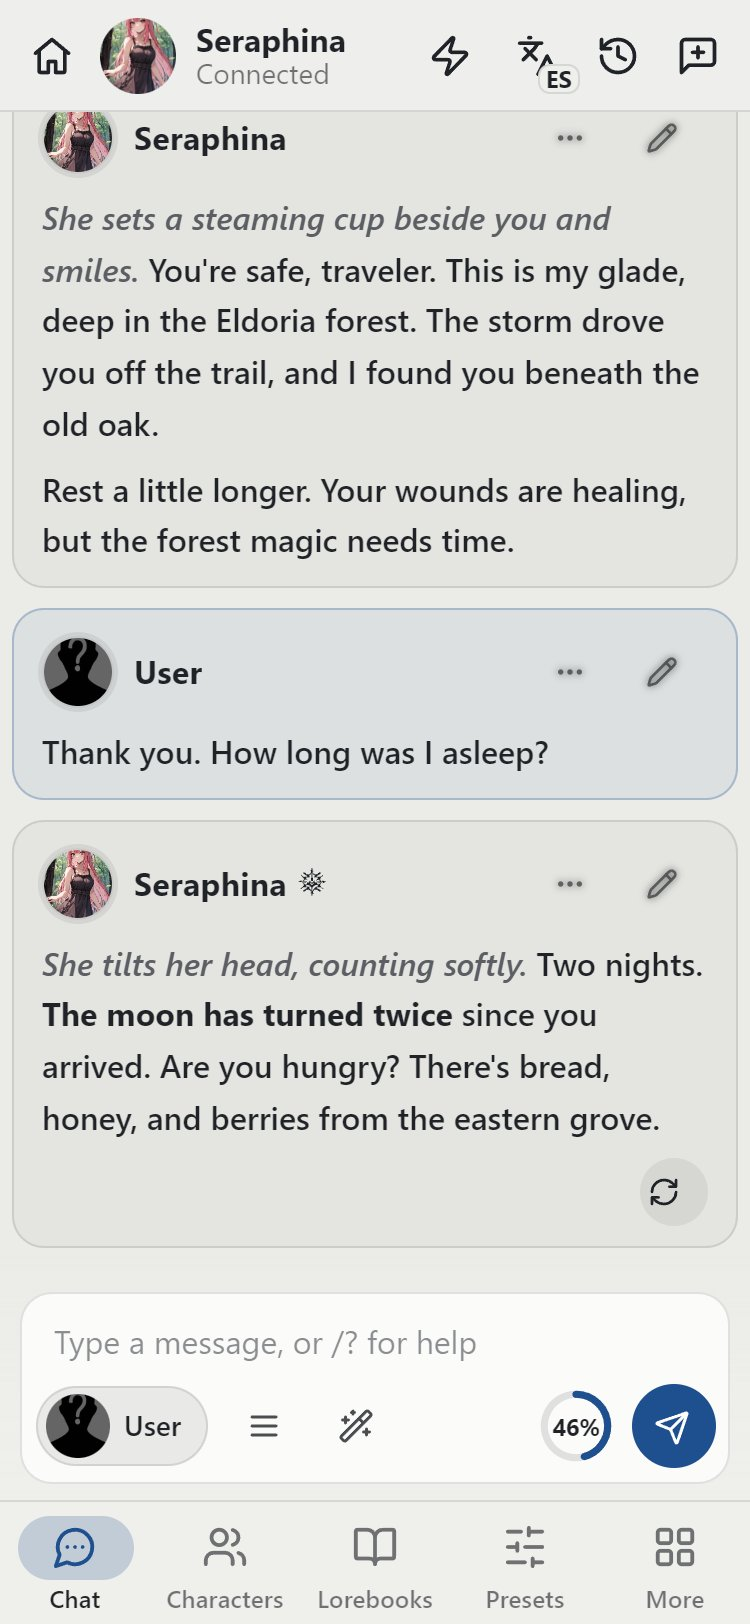
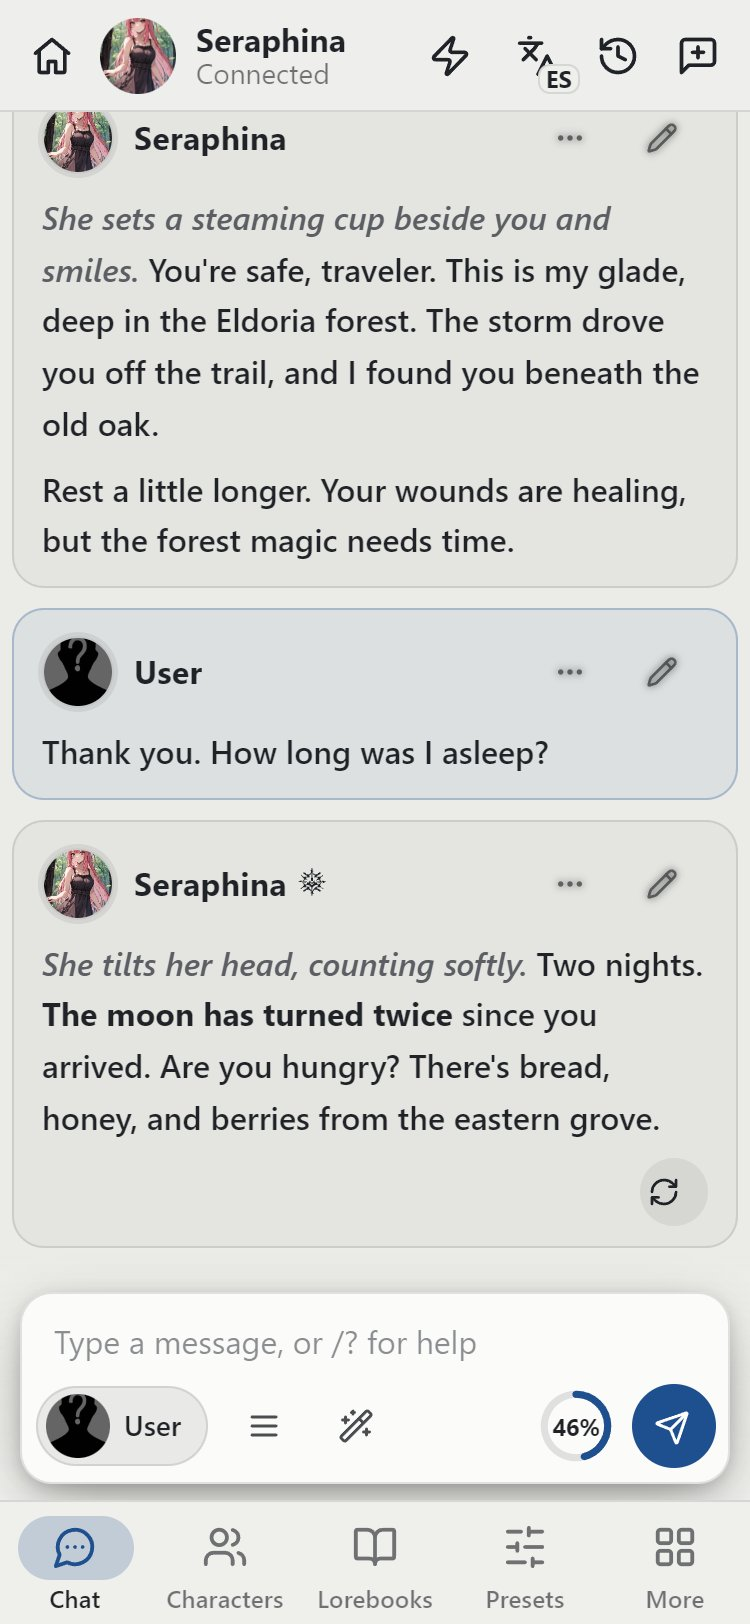
Pocket Tavern 2.15.1: tap no longer swipes back, chats open at the newest message, smooth sheet drag
The back arrow's bigger tap area covered the whole message because the arrow
was not positioned; chats are held at the newest message while they settle;
sheets drag per frame on their own layer, from content too, with a flick to
close; a soft shadow under the message box.

Changed region(s): [[0.0, 0.8005, 1.0, 0.9236]]

diff --git a/index.js b/index.js
@@ -526,33 +526,82 @@ function wireSheet(target) {
         closeSheet();
     });
 
+    // Drag down to close: from the top strip, or from the contents when they are
+    // scrolled to the top. The sheet is its own layer while dragging and moves
+    // once per frame; the dimmed background lightens with it; a quick flick closes.
     let startY = null;
+    let lastY = 0;
+    let lastT = 0;
+    let speed = 0;
     let dy = 0;
+    let dragging = false;
+    let frame = 0;
+    const paint = () => {
+        frame = 0;
+        panel.style.transform = `translateY(${dy}px)`;
+        dialog.style.setProperty('--stmui-drag', String(Math.min(1, dy / Math.max(1, panel.offsetHeight))));
+    };
     const begin = event => {
-        if (event.target.closest('button')) return;
-        startY = event.touches[0].clientY;
+        // Rows and buttons can start a drag too (most of a sheet is rows); fields cannot.
+        if (event.touches.length !== 1 || event.target.closest('input, textarea, select, [contenteditable="true"]')) return;
+        startY = lastY = event.touches[0].clientY;
+        lastT = event.timeStamp;
+        speed = 0;
         dy = 0;
-        panel.style.transition = 'none';
+        dragging = false;
     };
     const move = event => {
         if (startY === null) return;
-        dy = Math.max(0, event.touches[0].clientY - startY);
-        panel.style.transform = `translateY(${dy}px)`;
+        const y = event.touches[0].clientY;
+        if (!dragging) {
+            // From the contents, only a downward pull at the very top drags; anything else scrolls.
+            const body = event.currentTarget === head ? null : event.currentTarget;
+            if (y - startY < 6 || (body && body.scrollTop > 0)) {
+                if (body && (y - startY < -6 || body.scrollTop > 0)) startY = null;
+                return;
+            }
+            dragging = true;
+            startY = y;
+            panel.style.transition = 'none';
+            panel.style.willChange = 'transform';
+        }
+        if (event.cancelable) event.preventDefault();
+        const dt = Math.max(1, event.timeStamp - lastT);
+        speed = (y - lastY) / dt;
+        lastY = y;
+        lastT = event.timeStamp;
+        dy = Math.max(0, y - startY);
+        if (!frame) frame = requestAnimationFrame(paint);
     };
     const end = () => {
         if (startY === null) return;
         startY = null;
+        if (!dragging) return;
+        dragging = false;
+        cancelAnimationFrame(frame);
+        frame = 0;
+        // A drag that started on a row must not also press it.
+        const swallow = click => {
+            click.preventDefault();
+            click.stopPropagation();
+        };
+        dialog.addEventListener('click', swallow, { capture: true, once: true });
+        setTimeout(() => dialog.removeEventListener('click', swallow, { capture: true }), 400);
         panel.style.transition = '';
-        // Pulled far enough: keep going down from where the finger let go.
-        if (dy > 90) {
+        panel.style.willChange = '';
+        dialog.style.removeProperty('--stmui-drag');
+        // Pulled far enough, or flicked down: keep going from where the finger let go.
+        if (dy > 90 || speed > 0.55) {
             panel.style.transform = 'translateY(100%)';
             closeSheet();
         } else panel.style.transform = '';
     };
-    head.addEventListener('touchstart', begin, { passive: true });
-    head.addEventListener('touchmove', move, { passive: true });
-    head.addEventListener('touchend', end);
-    head.addEventListener('touchcancel', end);
+    for (const area of [head, target.body ?? target.list].filter(Boolean)) {
+        area.addEventListener('touchstart', begin, { passive: true });
+        area.addEventListener('touchmove', move, { passive: false });
+        area.addEventListener('touchend', end);
+        area.addEventListener('touchcancel', end);
+    }
 }
 
 class Sheet {
@@ -4886,8 +4935,35 @@ function primeChatSizes(delay = 0) {
         if (!active || !settings.fastChat || !chat) return;
         chat.classList.add('stmui-fast-prime');
         // Drawn in the next frame (heights are remembered then), skipped again after it.
-        requestAnimationFrame(() => requestAnimationFrame(() => chat.classList.remove('stmui-fast-prime')));
+        requestAnimationFrame(() => requestAnimationFrame(() => {
+            chat.classList.remove('stmui-fast-prime');
+            keepAtNewest();
+        }));
     }, delay);
+}
+
+/**
+ * A chat opens at its newest message. SillyTavern scrolls there once, but then
+ * the messages settle (their real heights are measured, long ones fold), and
+ * the chat ended up far above the newest message. For a moment after a chat
+ * opens, keep it at the newest message, until you scroll yourself.
+ */
+const newest = { until: 0 };
+
+function keepAtNewest() {
+    const chat = document.getElementById('chat');
+    if (!chat || Date.now() > newest.until || ctx().getCurrentChatId?.() === undefined) return;
+    chat.scrollTop = chat.scrollHeight;
+}
+
+function holdAtNewest(ms = 2500) {
+    const chat = document.getElementById('chat');
+    if (!active || !chat || ctx().powerUserSettings?.auto_scroll_chat_to_bottom === false) return;
+    newest.until = Date.now() + ms;
+    const stop = () => { newest.until = 0; };
+    chat.addEventListener('touchstart', stop, { once: true, passive: true });
+    chat.addEventListener('wheel', stop, { once: true, passive: true });
+    for (const delay of [60, 250, 500, 900, 1400, 2200]) setTimeout(keepAtNewest, delay);
 }
 
 function onChatWidthChange() {
@@ -6608,6 +6684,7 @@ function init() {
         setTimeout(onChatScroll, 300);
         // After the messages (and folding, 200 ms) are in.
         primeChatSizes(400);
+        holdAtNewest();
     });
     if (event_types.MORE_MESSAGES_LOADED) eventSource?.on?.(event_types.MORE_MESSAGES_LOADED, () => primeChatSizes(400));
     if (event_types.MESSAGE_SENT) eventSource?.on?.(event_types.MESSAGE_SENT, clearDraft);

diff --git a/style.css b/style.css
@@ -278,7 +278,13 @@ dialog.stmui-sheet::backdrop {
 }
 
 dialog.stmui-sheet.stmui-sheet-open::backdrop {
-    background: rgba(0, 0, 0, 0.55);
+    /* Lightens as the sheet is dragged down (--stmui-drag goes from 0 to 1). */
+    background: rgba(0, 0, 0, calc(0.55 * (1 - var(--stmui-drag, 0))));
+}
+
+/* While a finger drags the sheet, the background follows it directly. */
+dialog.stmui-sheet[style*="--stmui-drag"]::backdrop {
+    transition: none;
 }
 
 .stmui-panel {
@@ -1647,7 +1653,10 @@ html.stmui-chat:not(.stmui-editing) #chat .mes .mesAvatarWrapper > :is(.mesIDDis
 
 html.stmui-chat:not(.stmui-editing) body:not(.bubblechat):not(.documentstyle) #chat .mes > .swipe_left {
     grid-area: left;
-    position: static;
+    /* relative, not static: its bigger tap area (::after) must hang off the arrow, not cover the whole message. */
+    position: relative;
+    /* SillyTavern places it with bottom/left offsets meant for absolute positioning; they would shift it now. */
+    inset: auto;
     margin-top: 6px;
 }
 
@@ -1715,6 +1724,10 @@ html.stmui-chat:not(.stmui-editing) #chat .mes > .swipeRightBlock .swipe_right {
 html.stmui-chat:not(.stmui-editing) #chat .mes > .swipe_left,
 html.stmui-chat:not(.stmui-editing) #chat .mes > .swipeRightBlock .swipe_right {
     position: relative;
+}
+
+html.stmui-chat:not(.stmui-editing) body #chat .mes > .swipeRightBlock .swipe_right {
+    position: relative !important;
 }
 
 html.stmui-chat:not(.stmui-editing) #chat .mes > .swipe_left::after,
@@ -1894,7 +1907,8 @@ html.stmui-chat #send_form {
     border: 1px solid var(--stmui-line) !important;
     border-radius: 16px;
     background: var(--stmui-raised) !important;
-    box-shadow: none;
+    /* The one shadow in Pocket Tavern: a soft lift so the box sits clearly above the chat. */
+    box-shadow: 0 10px 30px -8px rgba(0, 0, 0, 0.45), 0 2px 8px rgba(0, 0, 0, 0.14);
     -webkit-backdrop-filter: none;
     backdrop-filter: none;
     transition: border-color 0.2s ease, box-shadow 0.2s ease;

diff --git a/changelog.js b/changelog.js
@@ -1,6 +1,15 @@
 /** Shown in More → What's new, and once after each update. Newest first. */
 export const CHANGES = [
     {
+        version: '2.15.1',
+        items: [
+            "Fixed: tapping anywhere on a reply with several versions went back to the previous version.",
+            "Fixed: opening a chat sometimes left you in the middle instead of at the newest message.",
+            "Sheets drag down smoothly, also from their content, and a quick flick closes them.",
+            "The message box has a soft shadow, so it sits clearly above the chat.",
+        ],
+    },
+    {
         version: '2.15.0',
         items: [
             "A calmer, more deliberate look: the accent colour only marks what matters, Close is plain text, and there are no more shadows or all-caps labels.",

diff --git a/CHANGELOG.md b/CHANGELOG.md
@@ -1,5 +1,13 @@
 # Changelog
 
+## 2.15.1
+
+- **Fixed: a tap on a reply went to the previous version.** 2.15.0 gave the swipe arrows a bigger invisible tap area, but the back arrow wasn't positioned, so that area stretched over the whole message. A tap anywhere on a reply with several versions pressed "back". The tap area now stays around the arrow (48×44px), and SillyTavern's old offsets for the arrow no longer shift it. The phone test checks this now.
+- **Fixed: opening a chat could land mid-way.** SillyTavern scrolls to the newest message once, right after drawing the chat; then the messages settle (Faster long chats measures their real heights, long ones fold) and the chat ended up thousands of pixels above the newest message. For a moment after a chat opens, Pocket Tavern now keeps it at the newest message, until you scroll yourself. It respects SillyTavern's own "scroll chat to bottom" setting.
+- **Smooth sheet dragging.** Sheets move once per frame on their own layer while you drag them, can be pulled down from their content (when it is scrolled to the top) as well as the top strip, the dimmed background lightens as you pull, and a quick flick closes them even when short. A drag that starts on a row doesn't also press it.
+- **A soft shadow under the message box**, so it sits clearly above the chat. It is the one shadow in Pocket Tavern (DESIGN.md notes the exception).
+- The phone test no longer leaves test versions in the test chat.
+
 ## 2.15.0
 
 Design round, following the new [DESIGN.md](DESIGN.md) guide (written from an audit of the screenshots and a contrast check of every theme).

diff --git a/DESIGN.md b/DESIGN.md
@@ -79,7 +79,7 @@ Multiples of 4: `4, 8, 12, 16, 24`. Page gutter is 16px on every page, including
 
 ### Elevation and motion
 
-- No drop shadows. Separation comes from `--stmui-raised`, `--stmui-line` and the sheet scrim.
+- No drop shadows. Separation comes from `--stmui-raised`, `--stmui-line` and the sheet scrim. One exception, asked for by the owner: the floating message box has a soft shadow so it sits clearly above the chat. Don't add others.
 - Motion answers a tap (sheet opens, row expands, toggle flips). 120–250ms, `--stmui-ease` / `--stmui-ease-sheet`. `--stmui-ease-pop` only for small confirmations.
 - No entrance animation that plays on its own, no hover effects (this is a phone), and everything respects `prefers-reduced-motion` and the **Light** animations setting.
 
